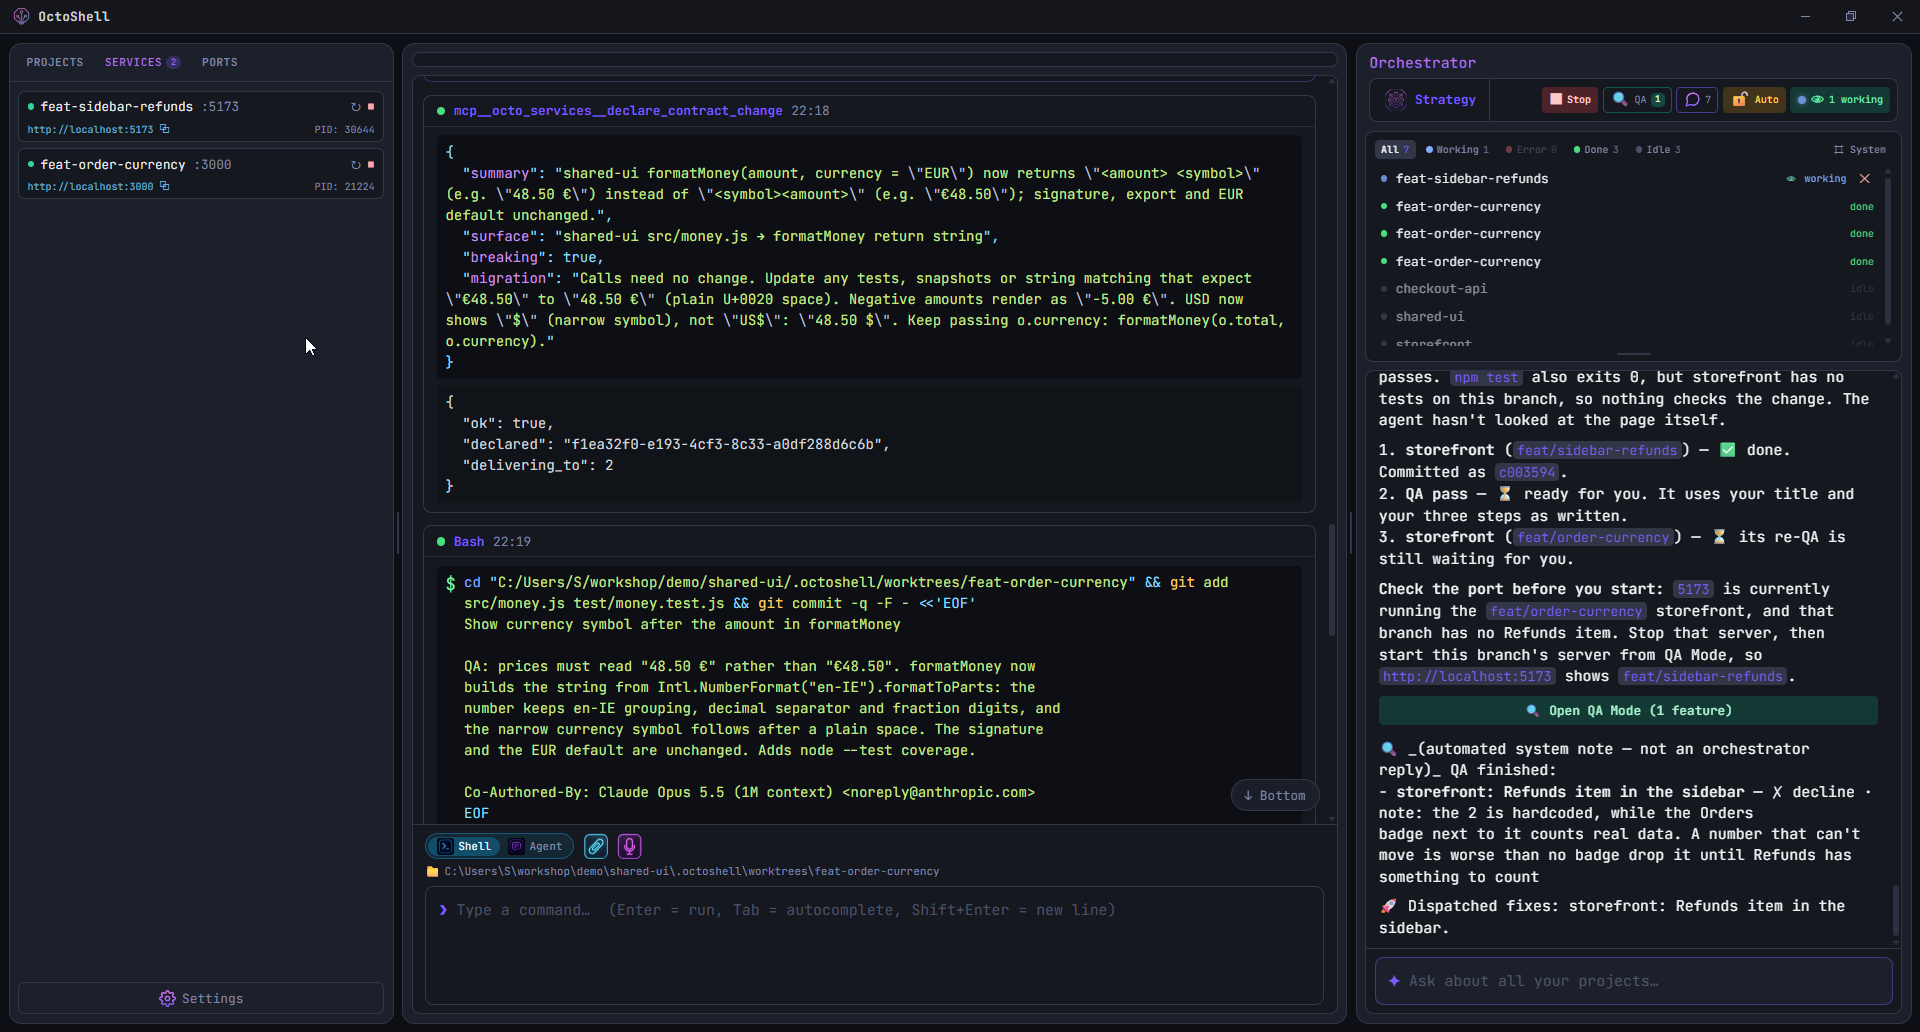
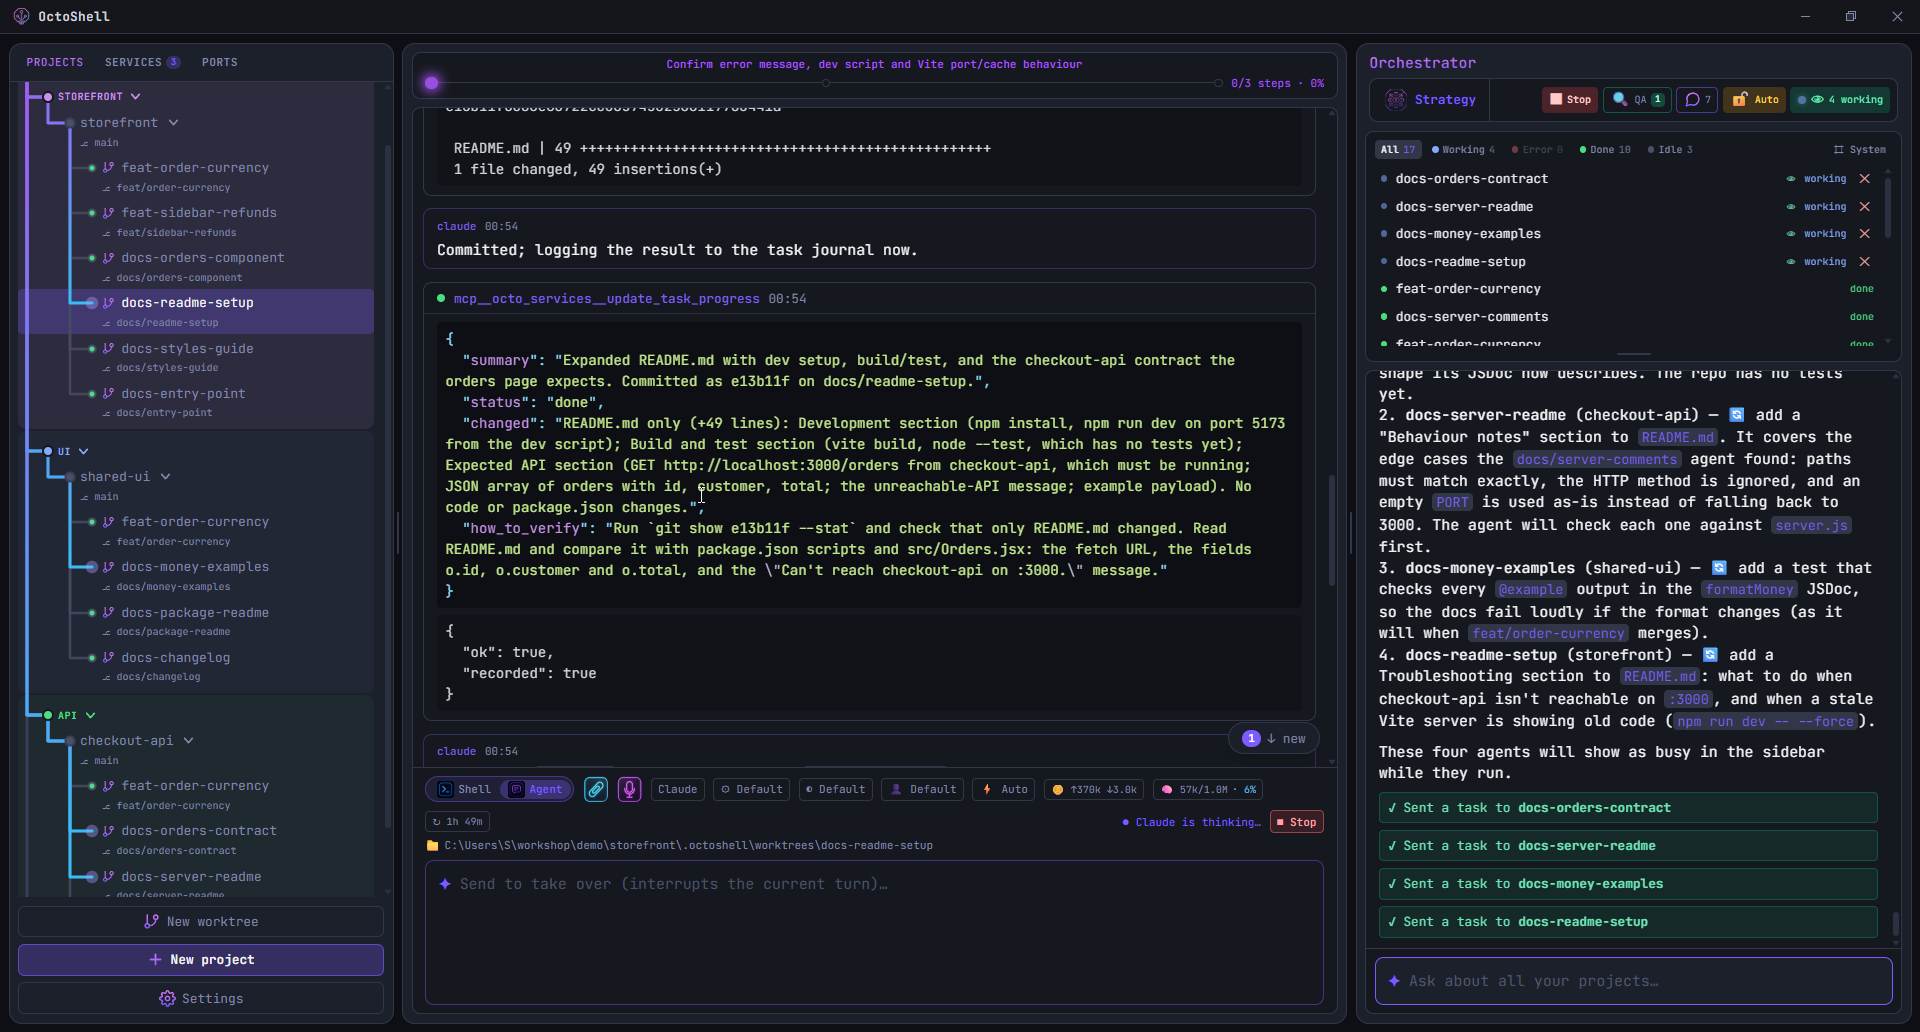
Use a busier window for the hero shot
The old hero was taken with two projects open and nothing running. This
one shows what the app looks like in use: worktrees across three
repositories, an agent working with its step list above the output, and
seventeen tasks in the orchestrator with four of them in flight.

diff --git a/docs/index.html b/docs/index.html
@@ -207,7 +207,7 @@
             <span class="text-sm leading-none">&#x2715;</span>
           </div>
         </div>
-        <img src="img/workspace.png" class="shot" alt="The OctoShell window: managed dev servers on the left, an agent's output in the middle, and the orchestrator's report on the right." />
+        <img src="img/workspace.png" class="shot" alt="The OctoShell window: worktrees for three repositories on the left, an agent working in the middle with its step list above the output, and the orchestrator tracking every task on the right." />
       </div>
     </div>
   </section>
